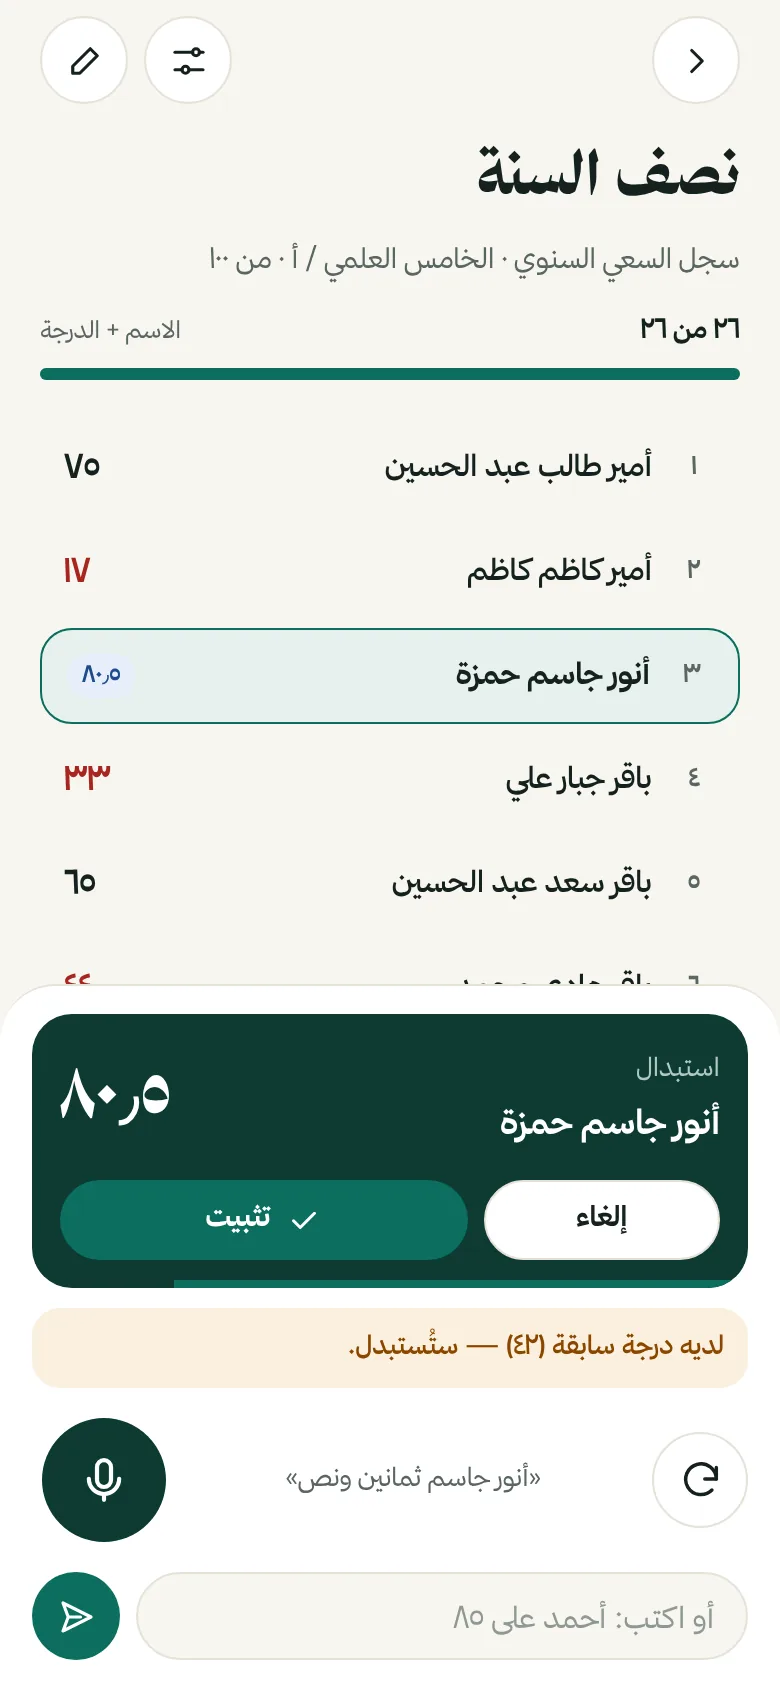
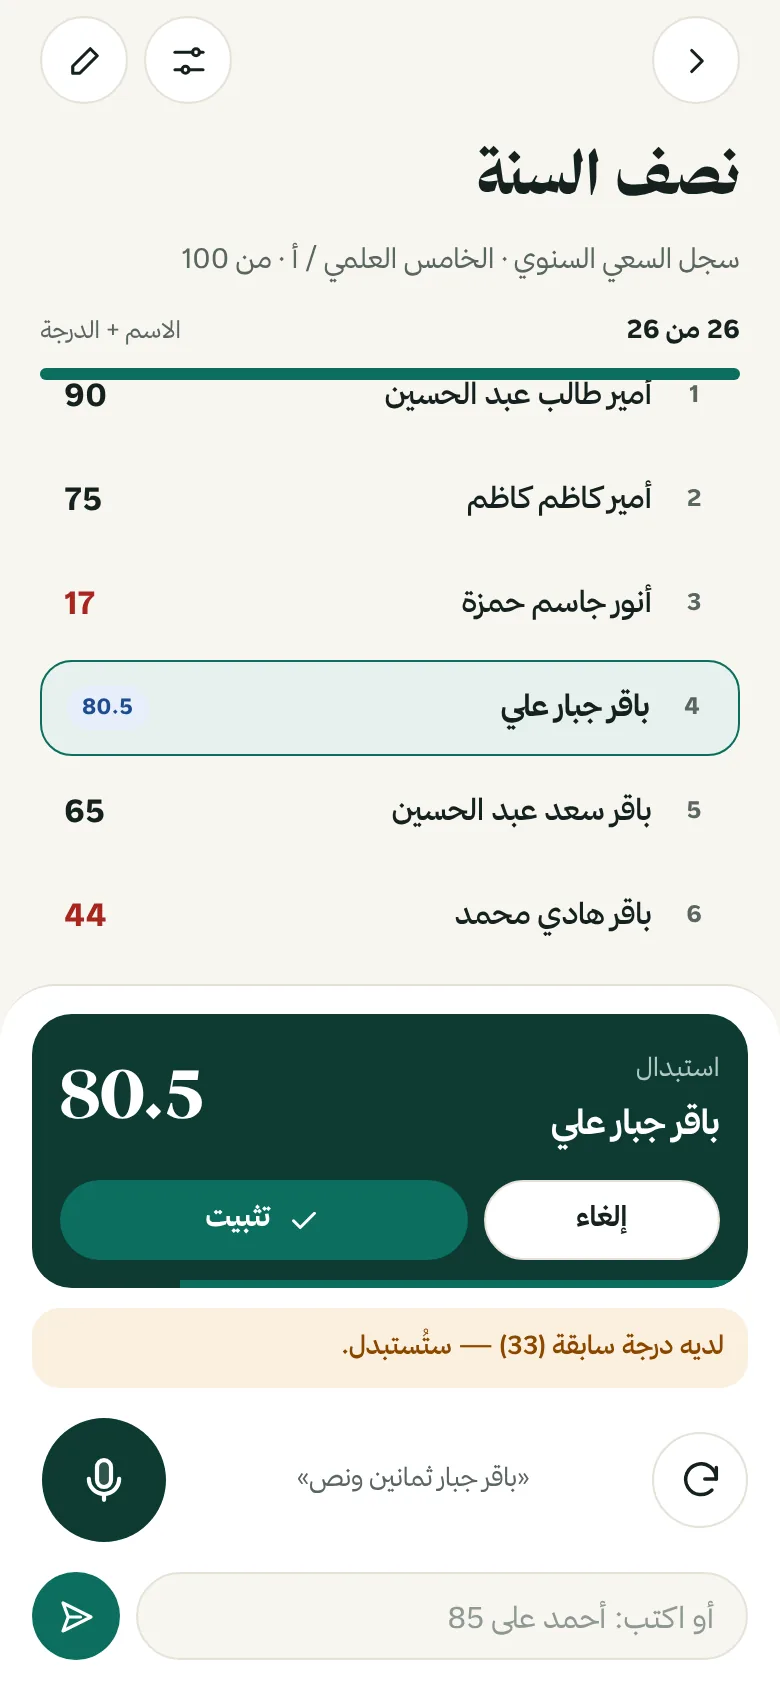
صور الموقع بالأرقام والأيقونات الجديدة، وتحديث سجل التقدّم
Claude-Session: https://claude.ai/code/session_01MuGSspZaMVLLvinGE7R1ud

diff --git a/docs/PROGRESS.md b/docs/PROGRESS.md
@@ -29,7 +29,12 @@
 7. ✅ (جلسة ٤) هوية جديدة: الاسم **نَهج**، واجهة مسطّحة بلا ظلال، أيقونات مرسومة خصيصاً بخلايا ذهبية مربعة.
 8. ✅ الشعار: «نهج» بالكوفي المربّع (شبكة ١١×١٣، خطوط ٥:٣، الجيم بذيل ممتد، نقطة النون ذهبية) — المصدر `packages/shared/src/brand.ts` + `brand/kufic.cjs`، ودليل `brand/guide.html`.
 9. ✅ إصلاح «الحزمة تبدو غير صالحة» على ColorOS: إعادة التوقيع بـ v1+v2+v3 (`--min-sdk-version 21`) وفحص v1 في البناء — apk-16.
-10. التالي: تجربة المستخدم على هاتفه، ثم إعداد Supabase/Firebase/مفتاح التوقيع (`docs/SETUP_TODO.md`).
+10. ✅ (جلسة ٥) الصوت: احتمالات المحرك (maxAlternatives 5 + `chooseHeard`) وتصحيح الرقم بلمسة «أو قصدت: 18»، صيغ عامية لـ١١–١٩، وكلمات الأعداد تُرسل للمحرك.
+11. ✅ الأرقام إنكليزية افتراضياً (`setDigitStyle`/`formatPercent`) وعربية من الإعدادات — في الواجهة والطباعة وExcel والويدجت.
+12. ✅ حركة شعار عند الفتح (`components/intro.tsx`)، بطاقة المطوّر (`components/developer.tsx`)، «عن التطبيق» جديدة.
+13. ✅ التحديثات: OTA عبر expo-updates (`RUNTIME_VERSION` في app.config.js + `.github/workflows/ota-update.yml`) وتحميل APK داخل التطبيق (`lib/updater.ts`).
+14. ✅ التراخيص (`scripts/gen-licenses.cjs` → شاشة `/licenses`)، شروط الاستخدام `apps/site/terms.html`، أيقونات ثنائية اللون.
+15. التالي: تجربة المستخدم على هاتفه، ثم إعداد Supabase/Firebase/مفتاح التوقيع/EAS (`docs/SETUP_TODO.md`).
 
 ## أوامر التحقق
 ```bash
